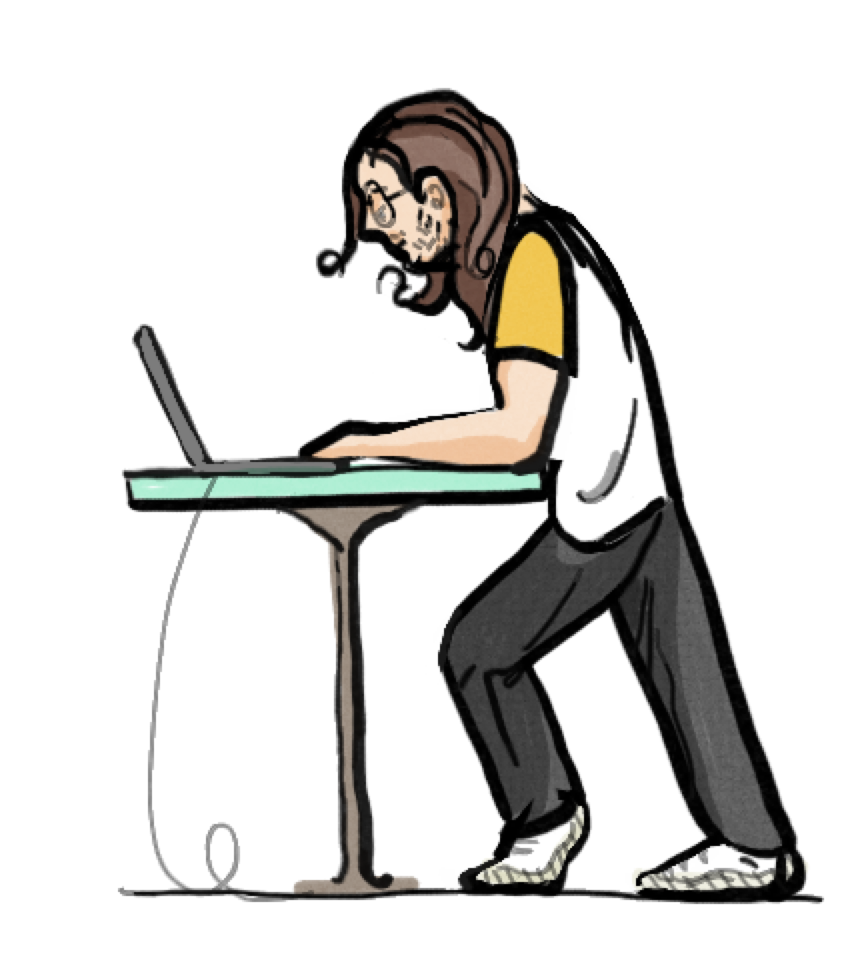
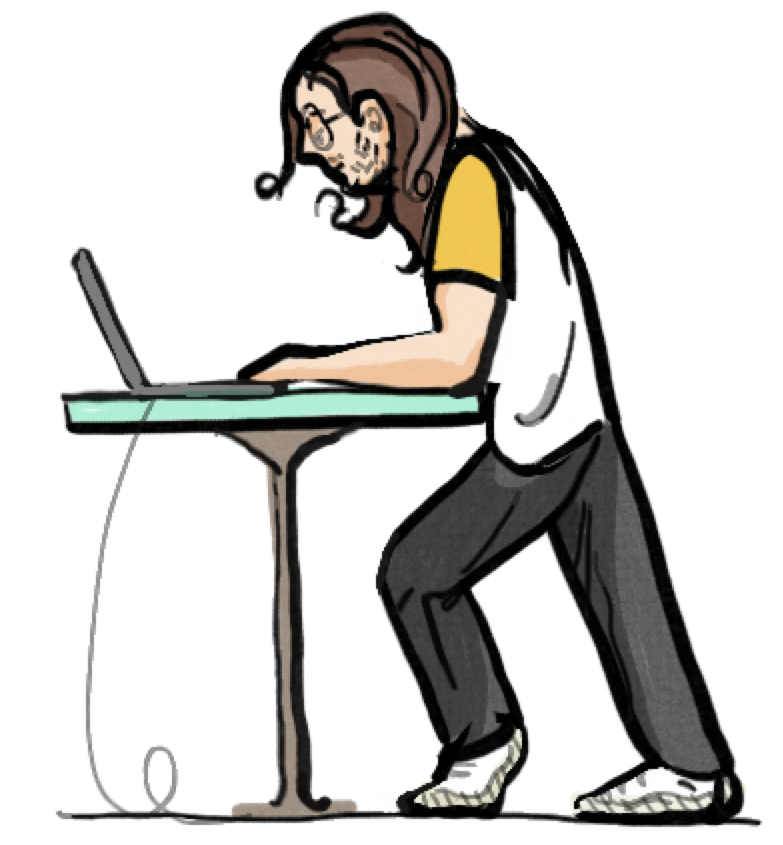
updates drawings

diff --git a/index.html b/index.html
@@ -5,7 +5,7 @@
 <meta charset="UTF-8">
 <meta name="viewport" content="width=device-width, initial-scale=1, maximum-scale=1, user-scalable=0">
 <meta name="author" content="Brian Donahue">
-<meta property='og:image' content='drawings/self-portraits/guitar.png'/>
+<meta property='og:image' content='drawings/self-portraits/glasses.png'/>
 <meta name="description" content="UX, web design, & front-end development portfolio for Brian Donahue, Product Designer based in Silicon Valley, California">
 <meta name="keywords" content="product,product design,manager,UX,UX design,UX designer,user experience,design,designer,UI,HTML,CSS,JavaScript,Illustrator,Adobe,Photoshop,freelance,contractor,developer,front-end,front end,portfolio,graphic design,graphics,web,web development,for hire,resume,jQuery,storyboarding,prototyping,research,user research,researcher,information architecture,taxonomy">
 <meta name="format-detection" content="telephone=no">
@@ -17,7 +17,7 @@
 </head>
 <body>
 	<section id="overview" class="row">
-		<img src="drawings/self-portraits/guitar.png" alt="A drawing of Brian" />
+		<img src="drawings/self-portraits/mobile.png" alt="A drawing of Brian" />
 		<h1>Brian Donahue<i>,</i><span>product designer</span></h2>
 		<h3>UX<divider> </divider>Strategy<divider> </divider>Research</h3>
 		<div class="bio">

diff --git a/style.css b/style.css
@@ -67,12 +67,17 @@ html {width:100vw;overflow-x:hidden;}
 }
 @media screen and (min-width:1024px) {
   #overview {
+    background-image:url(drawings/self-portraits/guitar.png),radial-gradient(circle,#77777744 3%,#9f9f9f00 4%,#9f9f9f00 100%);
+    /*background-size:400px 400px,48px 48px; /* double-check this size for guitar drawing */ */
+  }
+  #overview .bio {margin-right:405px;}
+}
+@media screen and (min-width:1350px) {
+  #overview {
     background-image:url(drawings/self-portraits/working.png),radial-gradient(circle,#77777744 3%,#9f9f9f00 4%,#9f9f9f00 100%);
     /*background-size:400px 400px,48px 48px; /* double-check this size for working drawing */ */
   }
   #overview .bio {margin-right:385px;}
-}
-@media screen and (min-width:1000px) {
 }
 
 #overview .bio {letter-spacing:1px;line-height:1.9em;}
